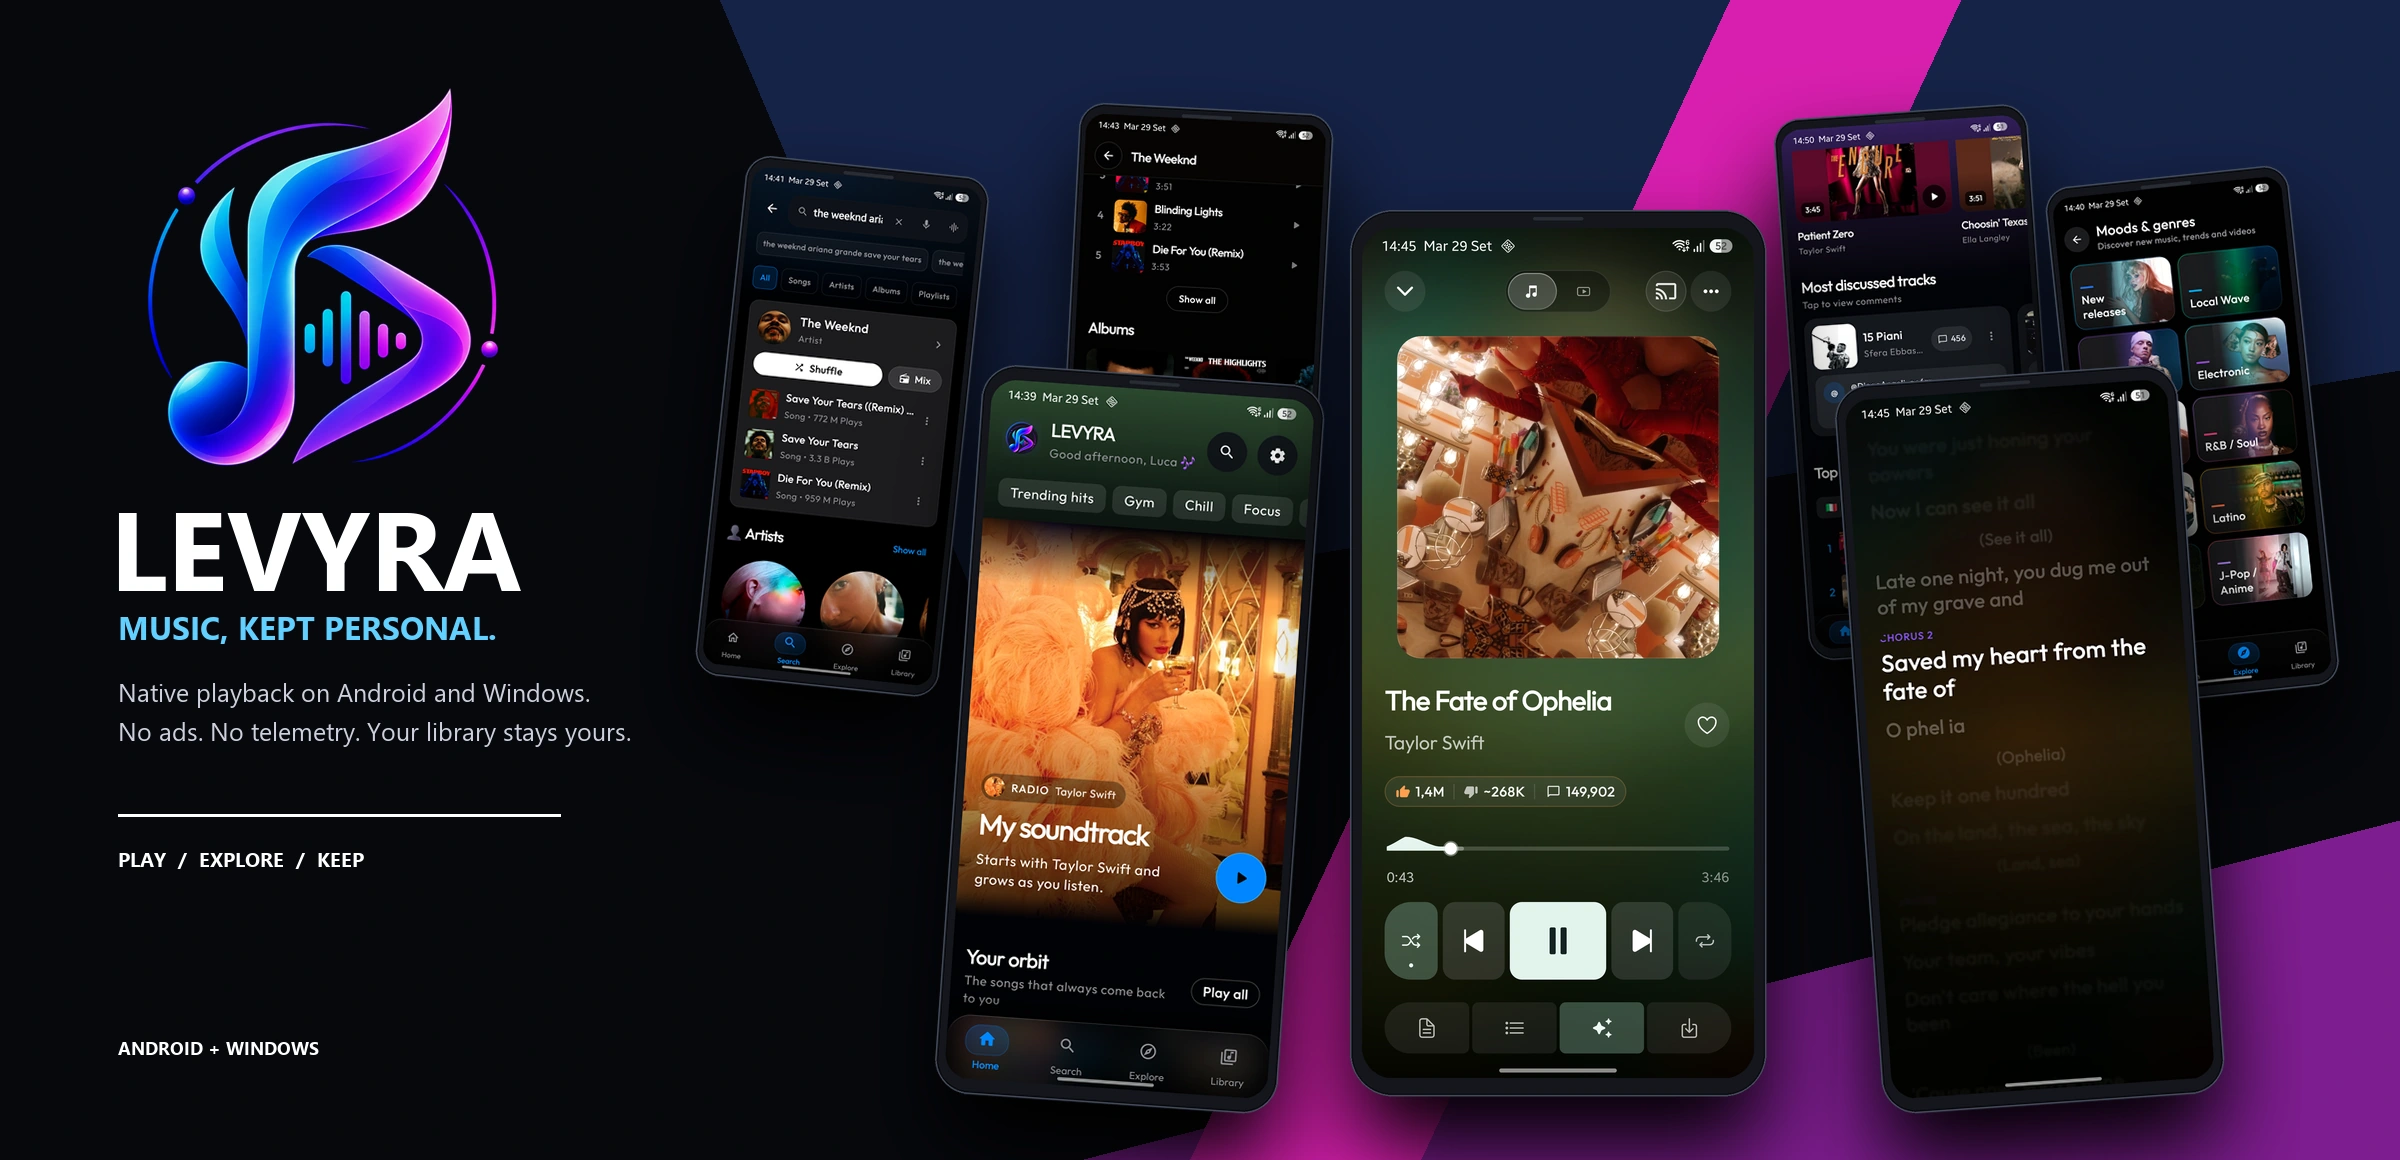
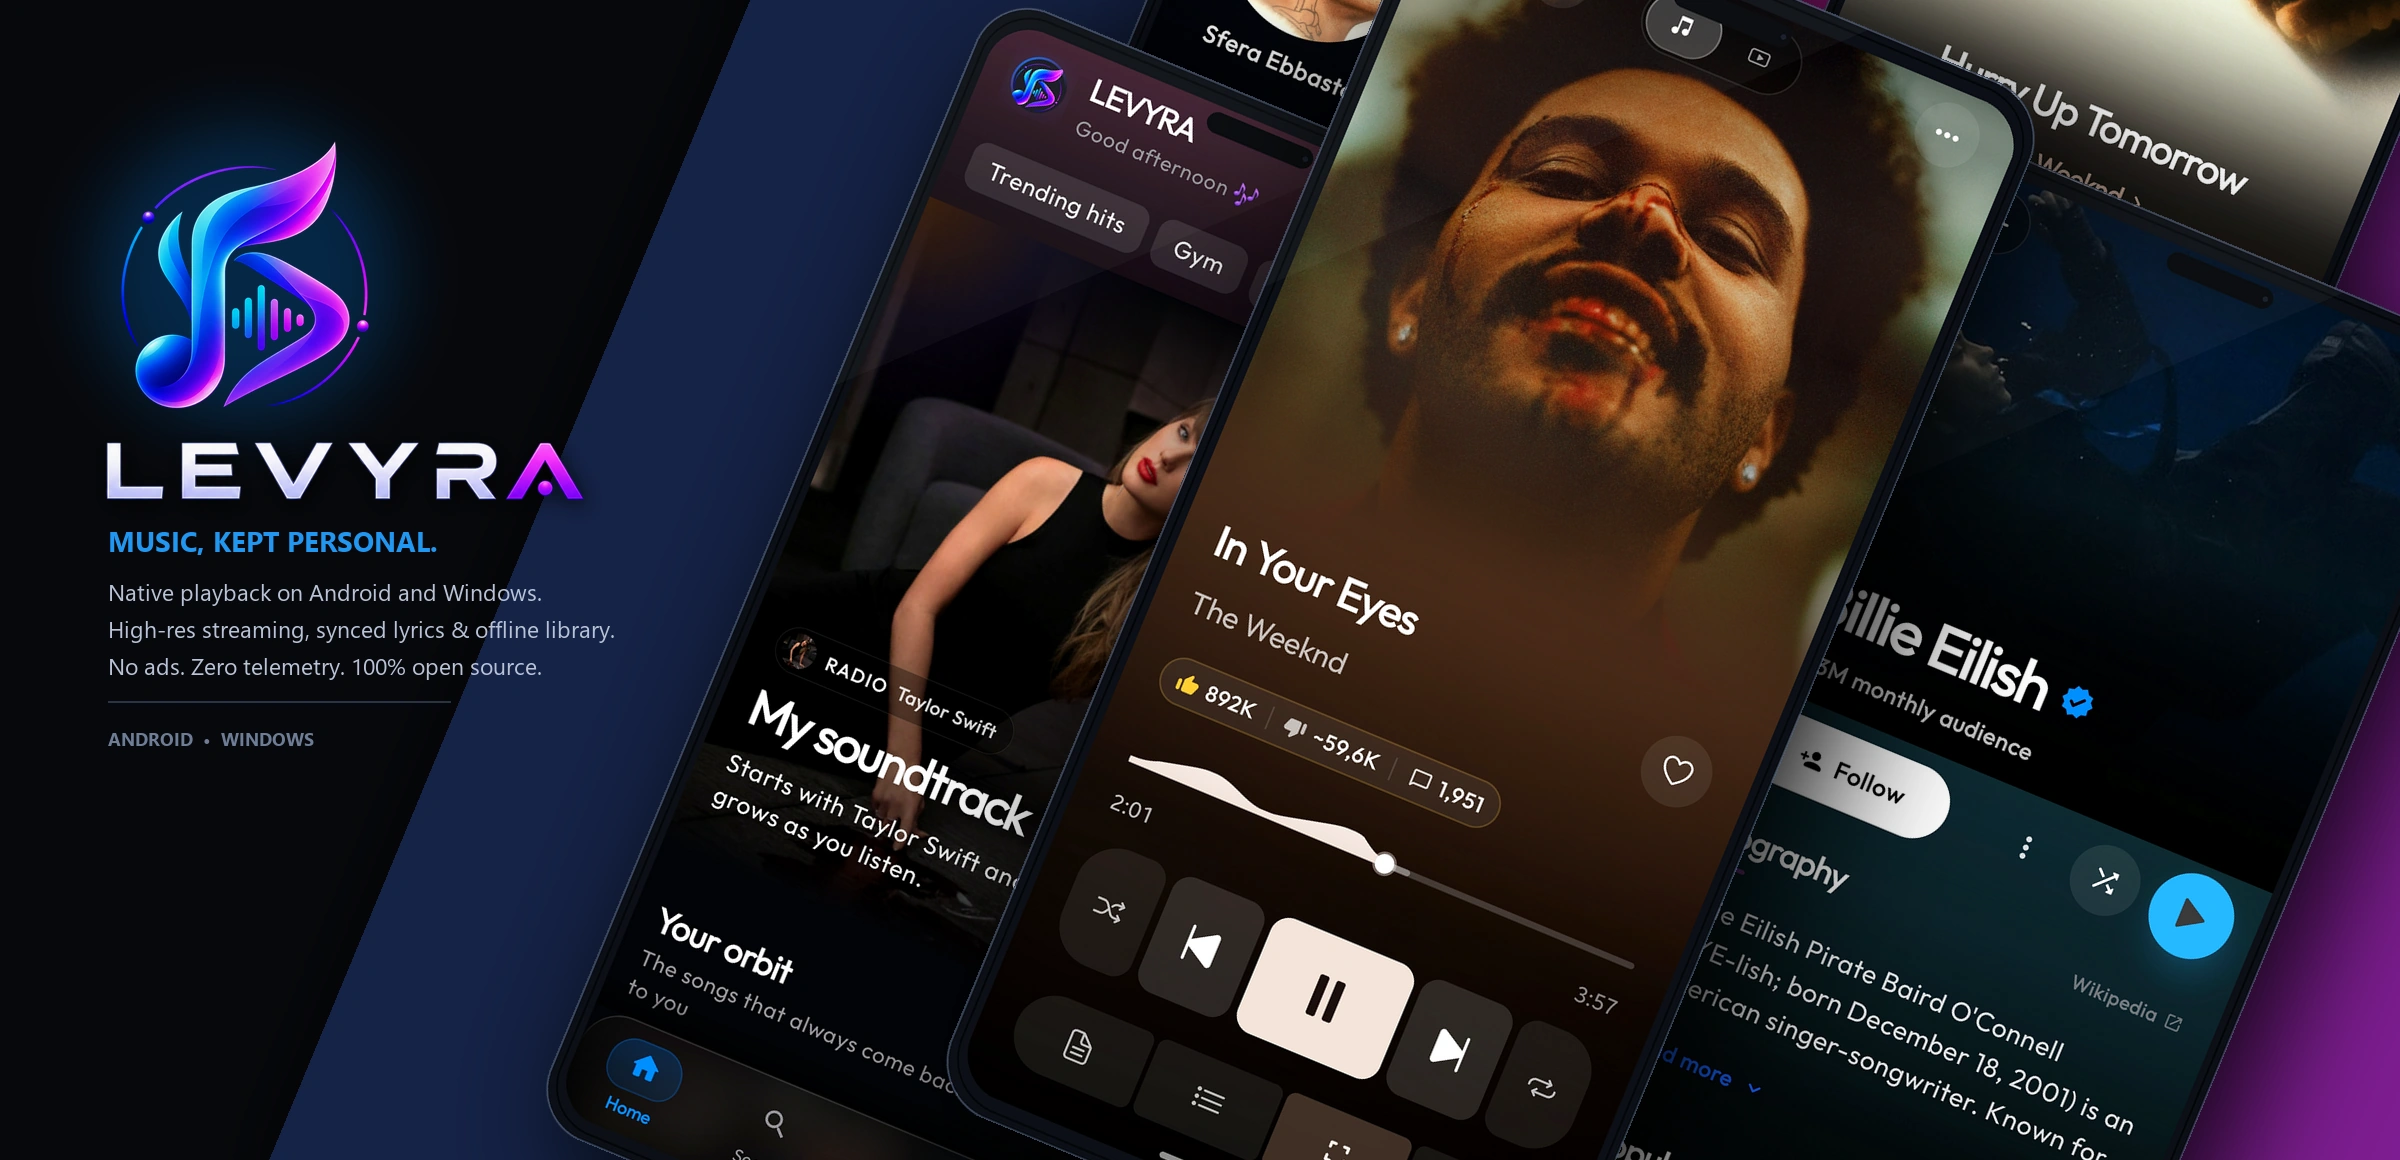
docs(readme): refine showcase selections

diff --git a/scripts/generate_showcase_assets.py b/scripts/generate_showcase_assets.py
@@ -10,7 +10,7 @@ os.makedirs(OUT_SHOWCASE_DIR, exist_ok=True)
 os.makedirs(OUT_CARDS_DIR, exist_ok=True)
 
 SCREENS = {
-    "home": "levyra-current.png",
+    "home": "Screenshot_20260926_171253_LEVYRA.jpg",
     "charts": "charts.png",
     "genres": "genres.png",
     "listening_pulse": "pulse.png",
